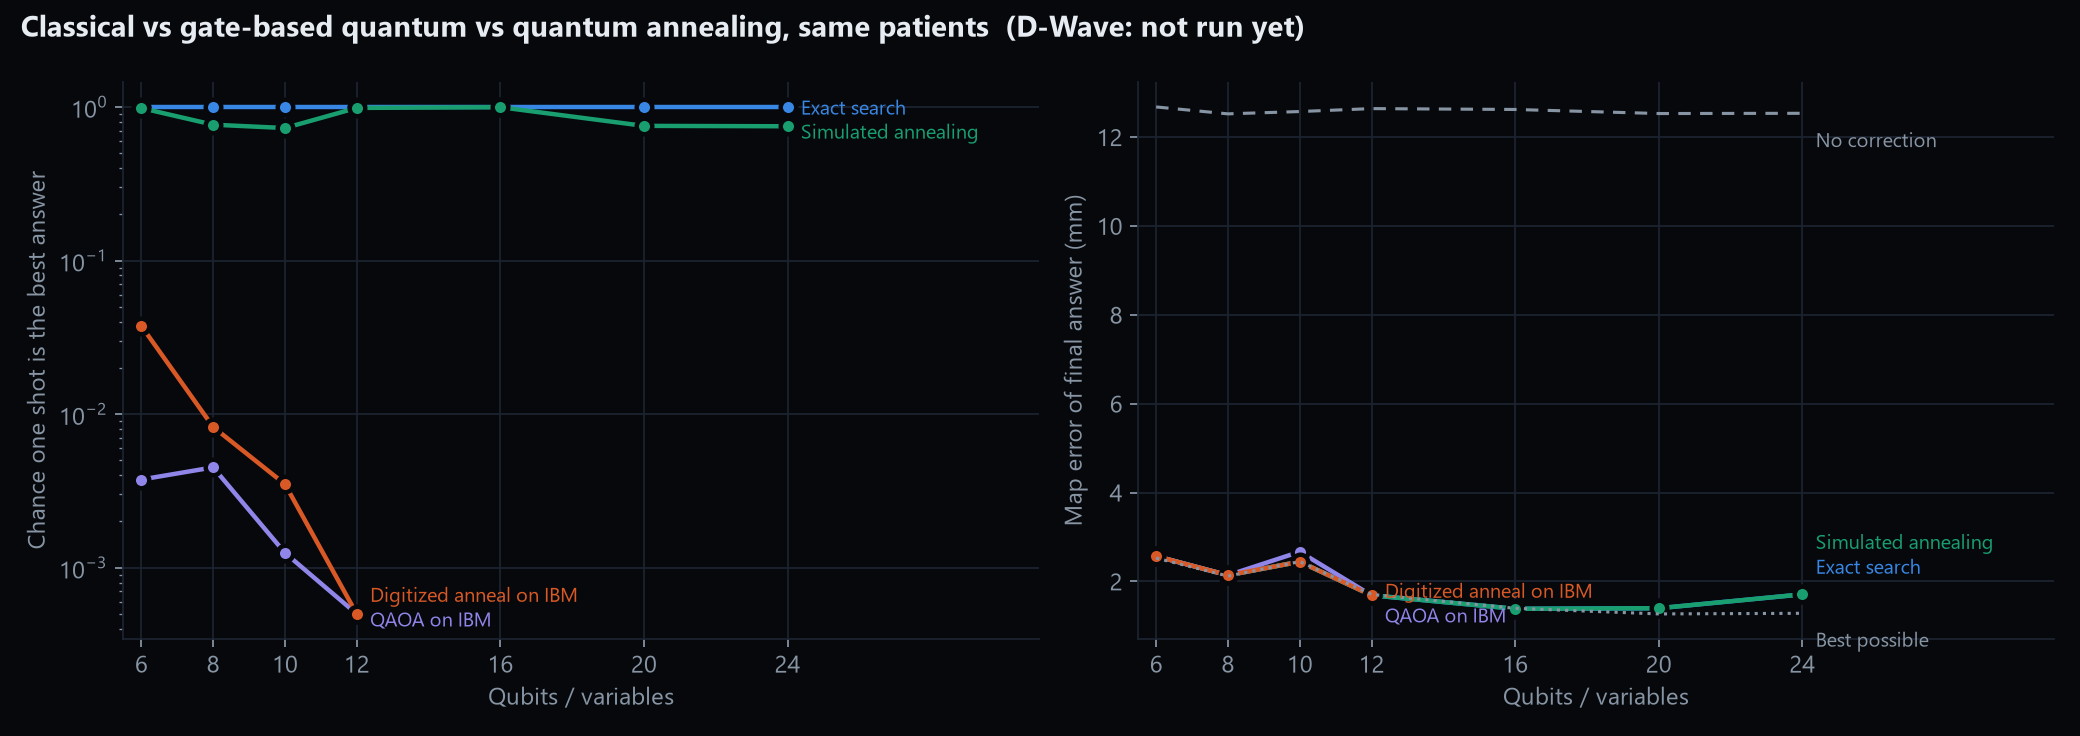
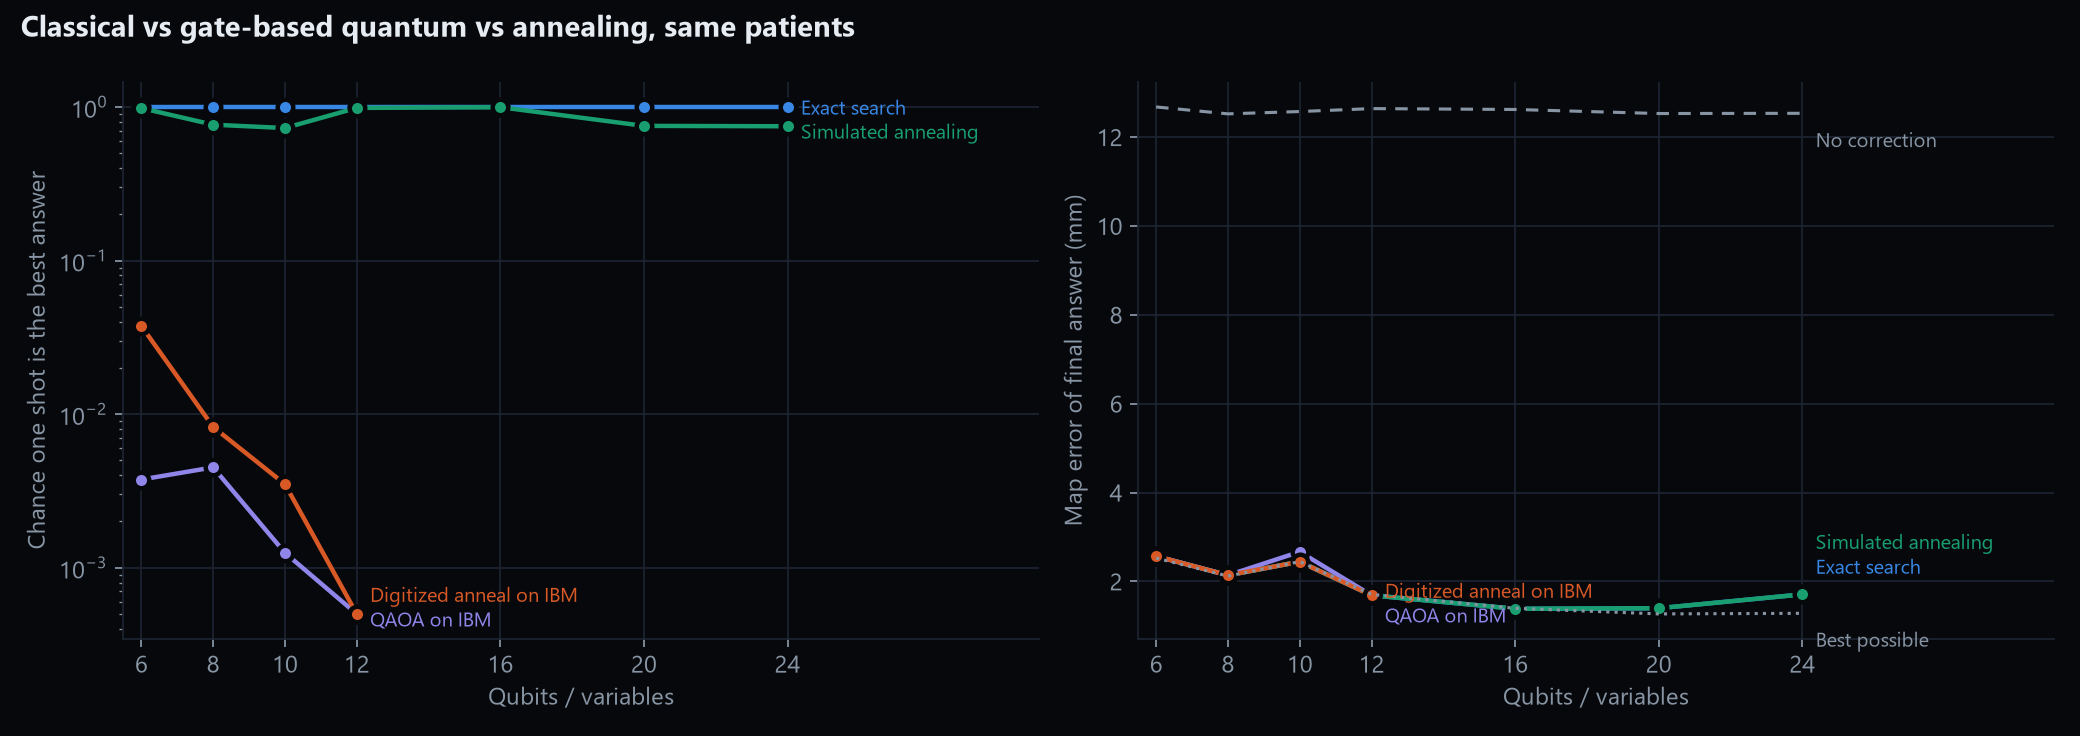
Deck: classical vs gate vs annealing slide; D-Wave noted as paid-access only

Changed region(s): [[0.25, 0.0, 0.625, 0.0625]]

diff --git a/slides/source/slides/paradigms.html b/slides/source/slides/paradigms.html
@@ -1,0 +1,18 @@
+<section id="paradigms" data-transition="fade" style="background:#06080B;color:#E8EDF1;font-family:Inter, Arial, sans-serif;padding:128px 128px 160px;display:flex;flex-direction:column;gap:40px">
+<p style="font-family:'Space Grotesk', Arial, sans-serif;font-size:24px;font-weight:600;letter-spacing:4px;text-transform:uppercase;color:#2FC27A">06 · Three ways to solve it</p>
+<h2 style="font-family:'Space Grotesk', Arial, sans-serif;font-size:72px;font-weight:600;line-height:1.1;color:#E8EDF1">Classical, logic gates, annealing: same map.</h2>
+<div style="display:grid;grid-template-columns:1240px 1fr;gap:56px;align-items:start;flex:1">
+<div style="display:flex;flex-direction:column;gap:16px">
+<img src="/_blob/1099a01d112ba24efeda12d2a4c9c6d4" alt="Two bar charts. Left, share of tries that find the best answer: normal computer exact search 100%, normal computer annealing 87%, IBM quantum chip with logic gates 0.2%, IBM quantum chip annealing built from gates 1.2%. Right, map error: no fix 12.6 mm, the four methods 2.2, 2.2, 2.3 and 2.2 mm." style="width:1240px;height:461px;object-fit:contain">
+<p style="font-size:24px;line-height:1.4;color:#A7B3BD"><b>What the graphs show:</b> left, how often one try finds the best set of clues. Right, how far off the final map is; shorter is better. Same 8 tests for every method.</p>
+</div>
+<div data-text style="display:flex;flex-direction:column;gap:24px">
+<p style="font-size:32px;line-height:1.45;color:#A7B3BD">We gave the same puzzle to three kinds of solver.</p>
+<p style="font-size:32px;line-height:1.45;color:#E8EDF1">All of them fixed the map equally well: from 12.6 mm off to about 2 mm.</p>
+<p style="font-size:32px;line-height:1.45;color:#A7B3BD">The quantum chip needed thousands of tries to get there.</p>
+</div>
+</div>
+<p style="position:absolute;left:128px;bottom:64px;width:1200px;font-size:24px;color:#7D8A95">Anchor · Qiskit Fall Fest 2026</p>
+<p style="position:absolute;right:128px;bottom:64px;width:200px;text-align:right;font-size:24px;color:#7D8A95">13 / 18</p>
+<aside>Three computing approaches on the same 8 hardware instances (2 patients, 6–12 qubits). Classical: exact max-clique search, and simulated annealing (the classical algorithm a quantum annealer imitates). Gate-based quantum: QAOA p = 1 on IBM ibm_fez. Annealing: a linear-ramp “digitized anneal” run on the same IBM chip, which builds the annealing process out of logic gates. Each IBM run used 4,000 shots, so even a 1% hit rate finds the best answer about 40 times. A dedicated quantum annealer (D-Wave) needs paid or approved access, so it is not in this comparison; the script adds it automatically if it ever runs. Script: scripts/compare_paradigms.py.</aside>
+</section>

diff --git a/slides/source/slides/hardware.html b/slides/source/slides/hardware.html
@@ -5,6 +5,6 @@
 <img src="/_blob/7bae44b8ad93e03313592e0574b46f01" alt="Three line charts for QAOA p=1, digitized anneal p=2 and deep anneal: share of valid answers vs qubits for the ideal simulator, the noise model, ibm_fez raw, ibm_fez with error suppression, and random guessing. Hardware sits just below the noise model and far above random; deeper circuits fall fastest." style="width:1664px;height:430px;object-fit:contain">
 <p style="font-size:24px;line-height:1.4;color:#A7B3BD"><b>What the graph shows:</b> each panel is one circuit design, simplest on the left. Up is how often the chip gave a valid answer; right is a bigger puzzle. <span style="color:#6FA8FF">Blue</span> = perfect simulation, <span style="color:#F08A4B">orange</span> = our prediction for a noisy chip, <span style="color:#2FC27A">green</span> = the real chip (dashed = with noise protection), grey = random guessing.</p>
 <p style="position:absolute;left:128px;bottom:64px;width:1300px;font-size:24px;color:#7D8A95">IBM jobs dbnuils4148s7391lgkg and dbnvsu8qtr0c73adohg0, 2,000 tries each</p>
-<p style="position:absolute;right:128px;bottom:64px;width:200px;text-align:right;font-size:24px;color:#7D8A95">11 / 17</p>
+<p style="position:absolute;right:128px;bottom:64px;width:200px;text-align:right;font-size:24px;color:#7D8A95">11 / 18</p>
 <aside>Hardware bonus, top tier (+5): ran on a real device AND compared to the simulator AND analysed the noise AND applied error suppression. Same 24 circuits as our noise study, 6–12 qubits, three circuit depths, sent once raw and once with error suppression (XY4 dynamical decoupling + twirling). Every number is re-scored from the chip’s saved raw results. The up axis is a log scale.</aside>
 </section>

diff --git a/slides/source/slides/close.html b/slides/source/slides/close.html
@@ -3,6 +3,6 @@
 <h2 style="font-family:'Space Grotesk', Arial, sans-serif;font-size:72px;font-weight:600;line-height:1.15;color:#06120C">When the brain moves during surgery, Anchor finds the clues that agree, fixes the surgeon’s map, and warns when the fix can’t be trusted.</h2>
 <p style="font-family:'Space Grotesk', Arial, sans-serif;font-size:44px;font-weight:500;color:#06120C">Thank you. Questions?</p>
 <p style="position:absolute;left:128px;bottom:64px;width:1200px;font-size:24px;color:#06120C">Code, notebook, results and demo: github.com/neelgurram/anchor</p>
-<p style="position:absolute;right:128px;bottom:64px;width:200px;text-align:right;font-size:24px;color:#06120C">17 / 17</p>
-<aside>Rubric 06 asks for a one-sentence explanation for someone with no physics background: this is it. Likely questions: Why not just use RANSAC? (It is slightly better today; our puzzle form is the one that can move to quantum hardware as it improves.) Where is the quantum part? (Choosing which clues to trust.) Did quantum beat a normal computer? (No, it tied; slide 13 says what would need to change.)</aside>
+<p style="position:absolute;right:128px;bottom:64px;width:200px;text-align:right;font-size:24px;color:#06120C">18 / 18</p>
+<aside>Rubric 06 asks for a one-sentence explanation for someone with no physics background: this is it. Likely questions: Why not just use RANSAC? (It is slightly better today; our puzzle form is the one that can move to quantum hardware as it improves.) Where is the quantum part? (Choosing which clues to trust.) Did quantum beat a normal computer? (No, it tied; slide 14 says what would need to change.)</aside>
 </section>

diff --git a/slides/source/slides/team.html b/slides/source/slides/team.html
@@ -20,11 +20,11 @@
 <ul style="font-size:32px;line-height:1.5;color:#A7B3BD">
 <li>Read real ultrasound images</li>
 <li>Make the puzzle smart enough to beat the best normal method</li>
-<li>Try a different kind of quantum computer (D-Wave)</li>
+<li>Run on a real quantum annealer (D-Wave)</li>
 </ul>
 </div>
 </div>
 <p style="position:absolute;left:128px;bottom:64px;width:1200px;font-size:24px;color:#7D8A95">Anchor · Qiskit Fall Fest 2026</p>
-<p style="position:absolute;right:128px;bottom:64px;width:200px;text-align:right;font-size:24px;color:#7D8A95">16 / 17</p>
+<p style="position:absolute;right:128px;bottom:64px;width:200px;text-align:right;font-size:24px;color:#7D8A95">17 / 18</p>
 <aside>Rubric 07. Each teammate says one sentence on what they built; fill in real names and roles before presenting. Next-month details: real ultrasound images from the ReMIND dataset; rigid-fit terms in the QUBO so it can beat RANSAC; the D-Wave annealer and bigger cases. Other lessons: keep honest comparisons (RANSAC beat us and we kept it); quantum queues take hours, so plan runs early.</aside>
 </section>

diff --git a/slides/source/slides/build.html b/slides/source/slides/build.html
@@ -29,6 +29,6 @@
 </div>
 </div>
 <p style="position:absolute;left:128px;bottom:64px;width:1400px;font-size:24px;color:#7D8A95">39 automatic tests check the code, including that the puzzle’s best score is always the right answer</p>
-<p style="position:absolute;right:128px;bottom:64px;width:200px;text-align:right;font-size:24px;color:#7D8A95">7 / 17</p>
+<p style="position:absolute;right:128px;bottom:64px;width:200px;text-align:right;font-size:24px;color:#7D8A95">7 / 18</p>
 <aside>Rubric 03, technical names for judges: QAOAAnsatz parameterized circuits (p = 1–3); COBYLA optimizer on a CVaR objective (hybrid loop); LR-QAOA digitized annealing; preset transpiler level 3 onto IBM Heron; SamplerV2 primitive on Aer, the FakeMarrakesh noise model and ibm_fez; XY4 dynamical decoupling plus gate and measurement twirling. Built: the whole pipeline, API and 3D app. Reused: our own Q-Router QUBO helpers, RESECT patient data, a standard brain mesh. Hardest part: keeping hardware runs replayable from raw results.</aside>
 </section>

diff --git a/slides/source/slides/limits.html b/slides/source/slides/limits.html
@@ -20,6 +20,6 @@
 </div>
 </div>
 <p style="position:absolute;left:128px;bottom:64px;width:1200px;font-size:24px;color:#7D8A95">Full list in LIMITATIONS.md</p>
-<p style="position:absolute;right:128px;bottom:64px;width:200px;text-align:right;font-size:24px;color:#7D8A95">15 / 17</p>
-<aside>Also: the D-Wave annealer run hasn’t happened yet (update this if it does). The hardware test was two patient cases at four sizes on one night. RESECT is public and anonymised, which is why sending it to a cloud quantum computer was fine here.</aside>
+<p style="position:absolute;right:128px;bottom:64px;width:200px;text-align:right;font-size:24px;color:#7D8A95">16 / 18</p>
+<aside>Also: a dedicated quantum annealer (D-Wave) was not used, because it needs paid or approved access; annealing was tested by building it from gates on the IBM chip. The hardware test was two patient cases at four sizes on one night. RESECT is public and anonymised, which is why sending it to a cloud quantum computer was fine here.</aside>
 </section>

diff --git a/slides/source/slides/noise.html b/slides/source/slides/noise.html
@@ -21,6 +21,6 @@
 </div>
 </div>
 <p style="position:absolute;left:128px;bottom:64px;width:1200px;font-size:24px;color:#7D8A95">Anchor · Qiskit Fall Fest 2026</p>
-<p style="position:absolute;right:128px;bottom:64px;width:200px;text-align:right;font-size:24px;color:#7D8A95">12 / 17</p>
+<p style="position:absolute;right:128px;bottom:64px;width:200px;text-align:right;font-size:24px;color:#7D8A95">12 / 18</p>
 <aside>Exact numbers: the chip got 83% of the valid answers our noise model predicted, so the model is a fair, slightly optimistic guide. At 12 qubits the deepest circuit kept 4–13% valid answers vs 22–33% for the shortest. With error suppression the chip got 85% as many valid answers as without; the two jobs ran about three hours apart, so calibration drift is part of that gap. Map error 2.28 vs 2.21 mm (exact solver), 12.6 mm uncorrected. In the 6 runs that missed, 5 maps came out worse. Two patient cases on one night is a small sample.</aside>
 </section>

diff --git a/slides/source/slides/revisit.html b/slides/source/slides/revisit.html
@@ -18,6 +18,6 @@
 </div>
 </div>
 <p style="position:absolute;left:128px;bottom:64px;width:1200px;font-size:24px;color:#7D8A95">One-layer circuit on IBM Heron; today’s error rate is about 1 in 300 (3.3 × 10⁻³)</p>
-<p style="position:absolute;right:128px;bottom:64px;width:200px;text-align:right;font-size:24px;color:#7D8A95">13 / 17</p>
+<p style="position:absolute;right:128px;bottom:64px;width:200px;text-align:right;font-size:24px;color:#7D8A95">14 / 18</p>
 <aside>Rubric 02, top band: near-term vs future, and what scale and hardware would be needed. Exact needed error rates: 9.6e-3, 3.9e-3, 1.2e-3, 3.9e-4. Other conditions: the puzzle must also beat RANSAC, which needs rigid-fit terms; the computer must sit in or near the hospital (our cloud queue took hours); patient data must stay inside privacy rules. A normal computer still solves 160 candidates in about 50 ms.</aside>
 </section>

diff --git a/slides/source/slides/benchmark.html b/slides/source/slides/benchmark.html
@@ -13,6 +13,6 @@
 </div>
 </div>
 <p style="position:absolute;left:128px;bottom:64px;width:1200px;font-size:24px;color:#7D8A95">Anchor · Qiskit Fall Fest 2026</p>
-<p style="position:absolute;right:128px;bottom:64px;width:200px;text-align:right;font-size:24px;color:#7D8A95">9 / 17</p>
+<p style="position:absolute;right:128px;bottom:64px;width:200px;text-align:right;font-size:24px;color:#7D8A95">9 / 18</p>
 <aside>Rubric 04. Error bars are 95% confidence intervals. Baselines: no correction 5.36 mm, naive 5.57, RANSAC 2.02, exact max clique 2.19, simulated annealing 2.19, digitized anneal 2.19, QAOA 2.17, best possible 1.78. Quantum here runs on the Aer simulator, 8–16 qubits, 20–40% wrong matches. QAOA vs exact, paired: −0.02 ± 0.06 mm, a tie. RANSAC wins by 0.17 mm because it checks a rigid fit of the whole group, which is stricter than checking pairs.</aside>
 </section>

diff --git a/slides/source/slides/shape.html b/slides/source/slides/shape.html
@@ -20,6 +20,6 @@
 </div>
 </div>
 <p style="position:absolute;left:128px;bottom:64px;width:1400px;font-size:24px;color:#7D8A95">Scientists call this a maximum-clique problem, written as a QUBO</p>
-<p style="position:absolute;right:128px;bottom:64px;width:200px;text-align:right;font-size:24px;color:#7D8A95">5 / 17</p>
+<p style="position:absolute;right:128px;bottom:64px;width:200px;text-align:right;font-size:24px;color:#7D8A95">5 / 18</p>
 <aside>Rubric 02. For judges: minimise −Σxᵢ + P·Σxᵢxⱼ over pairs that disagree, with P = 2 so breaking a rule never pays. Two clues “agree” when the distance between them in the MRI equals the distance in the ultrasound, within a tolerance we fixed before any quantum run. A test checks every small case by brute force to prove the best score is always the true biggest group.</aside>
 </section>

diff --git a/slides/source/slides/why.html b/slides/source/slides/why.html
@@ -12,6 +12,6 @@
 </div>
 </div>
 <p style="position:absolute;left:128px;bottom:64px;width:1200px;font-size:24px;color:#7D8A95">Anchor · Qiskit Fall Fest 2026</p>
-<p style="position:absolute;right:128px;bottom:64px;width:200px;text-align:right;font-size:24px;color:#7D8A95">6 / 17</p>
+<p style="position:absolute;right:128px;bottom:64px;width:200px;text-align:right;font-size:24px;color:#7D8A95">6 / 18</p>
 <aside>Rubric 02 rewards honesty. The quantum ideas: superposition (all selections at once), interference steered by the circuit settings, and sampling. Max clique is NP-hard in general. Per try, QAOA hit the exact best answer far less often than a normal-computer method (0.07% vs 79% at 16 qubits), but keeping its best try still gave the same final map. Slide 13 says what hardware would need to change.</aside>
 </section>

diff --git a/slides/source/slides/confidence.html b/slides/source/slides/confidence.html
@@ -17,6 +17,6 @@
 </div>
 </div>
 <p style="position:absolute;left:128px;bottom:64px;width:1200px;font-size:24px;color:#7D8A95">Anchor · Qiskit Fall Fest 2026</p>
-<p style="position:absolute;right:128px;bottom:64px;width:200px;text-align:right;font-size:24px;color:#7D8A95">10 / 17</p>
+<p style="position:absolute;right:128px;bottom:64px;width:200px;text-align:right;font-size:24px;color:#7D8A95">10 / 18</p>
 <aside>3,344 corrected maps. Blue areas average 1.3 mm of real error, red areas 3.5 mm. Across all methods the alarm caught 66% of bad maps (over 3 mm off). It misses maps that are bad because too few clues cover a region. This check is a normal-computer step and works with any method; don’t pitch the colours as a quantum feature.</aside>
 </section>
